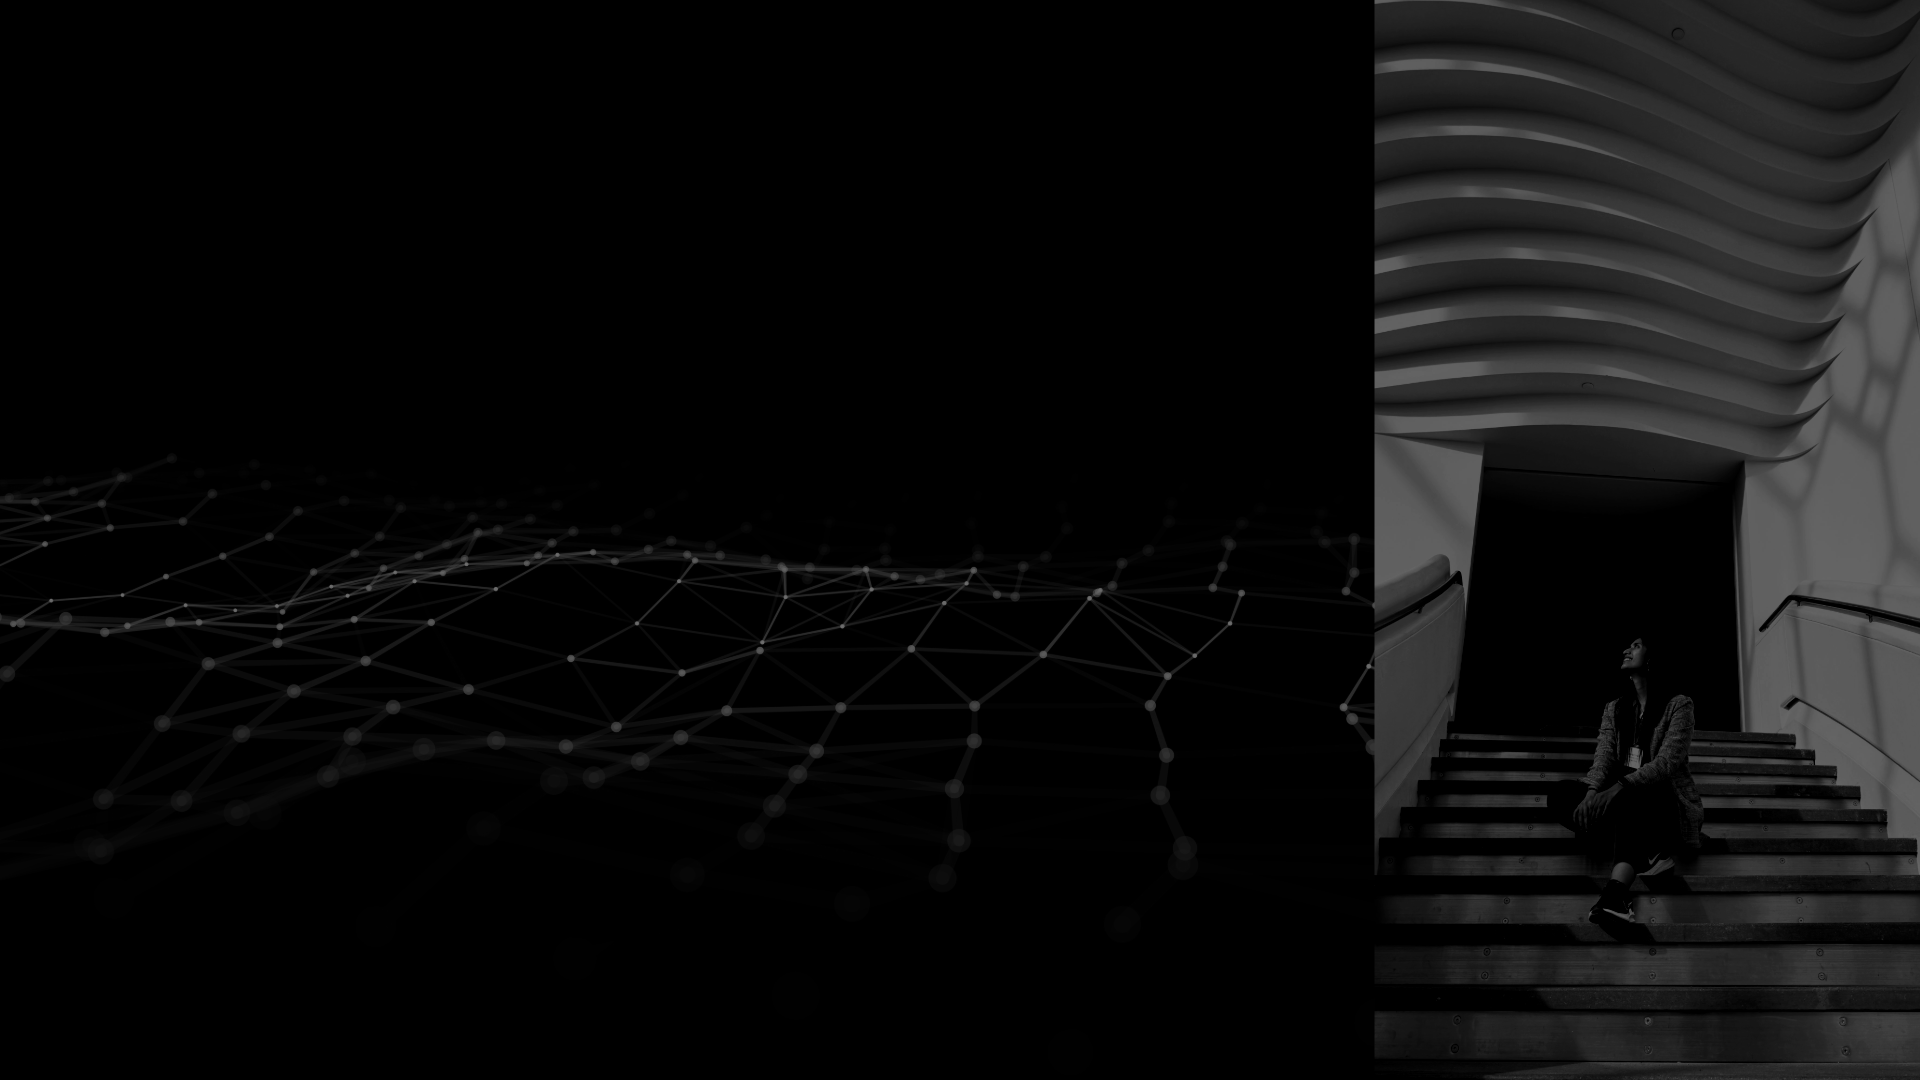
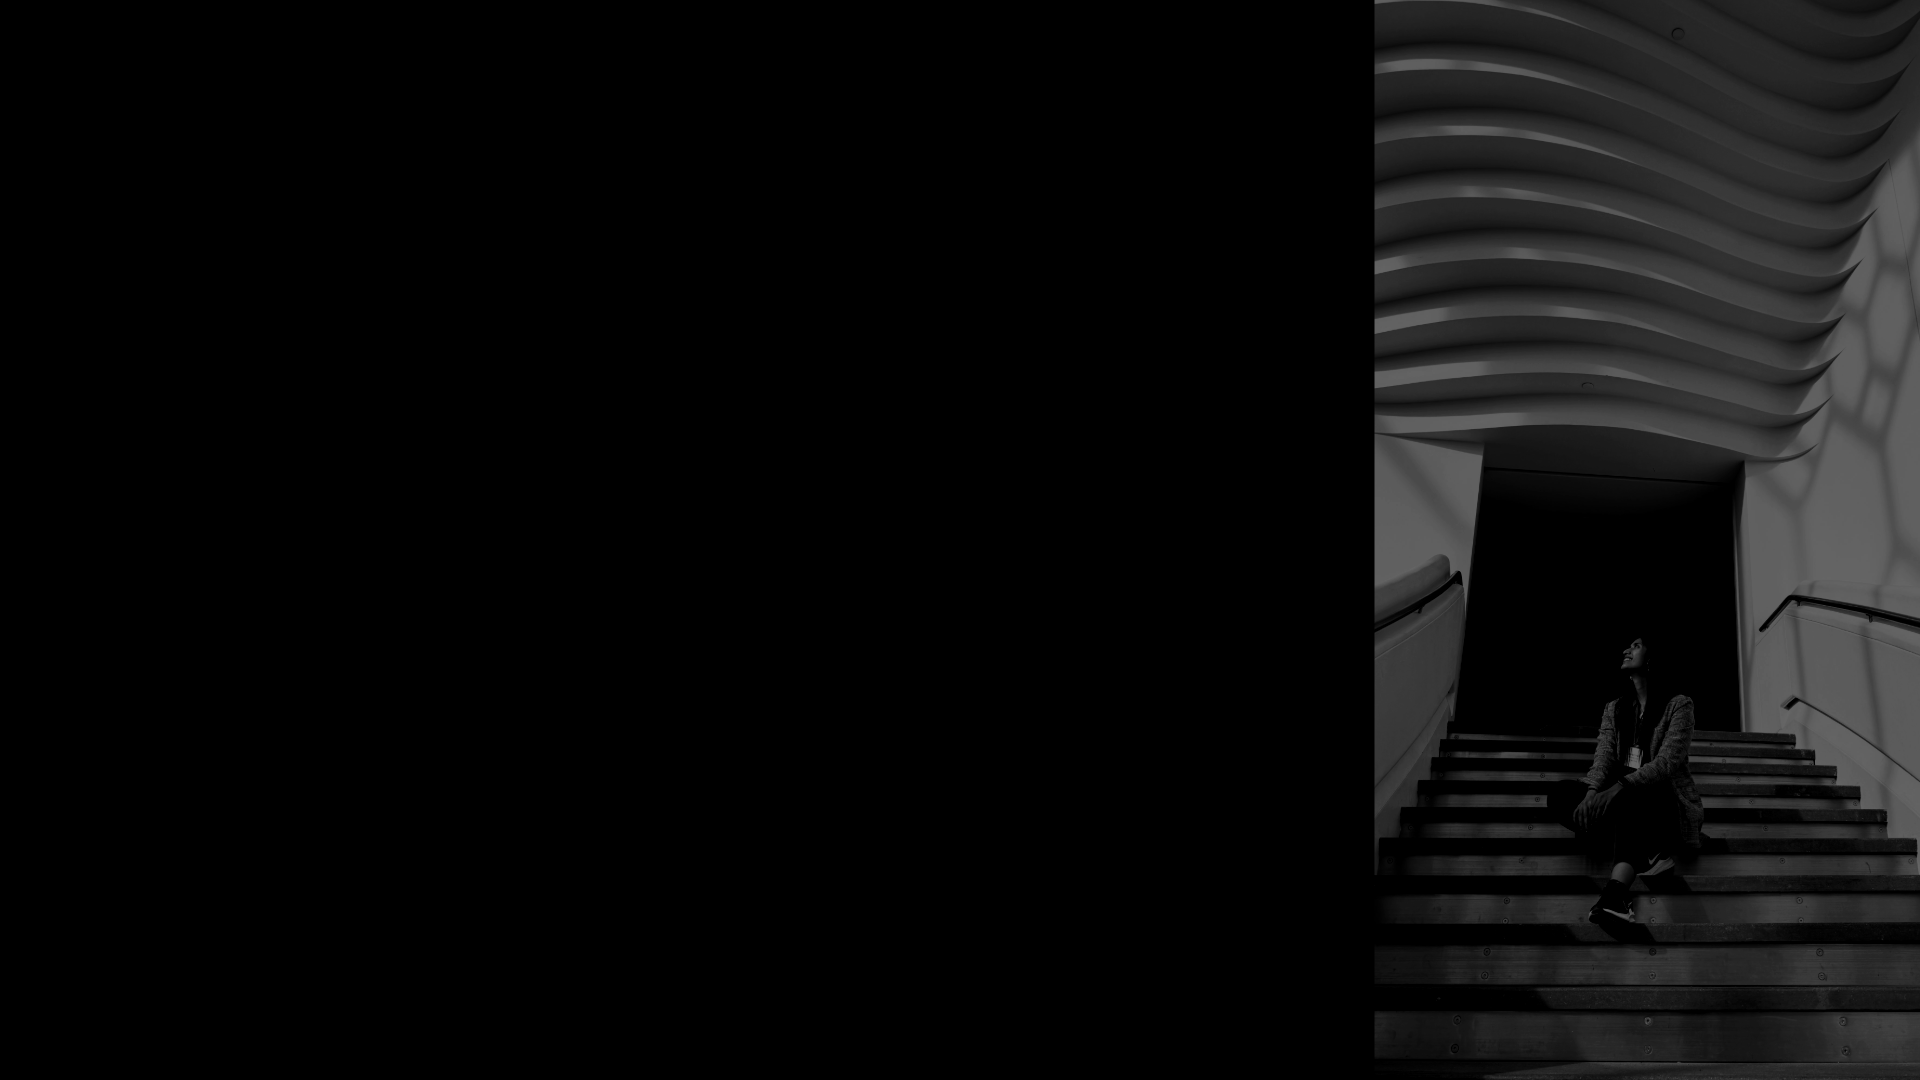
new bg image, altered skills css

diff --git a/index.html b/index.html
@@ -113,35 +113,27 @@
           <p class="fst-italic">
             I am driven by a profound passion for solving intricate business problems through innovative data science techniques. My expertise spans data exploration, visualization, and developing machine learning solutions to optimize business processes.
 
-            Other than waving my magic wand of data science skills to discover hidden insights and build AI solutions, I am also deeply passionate about building responsible AI solutions. I love a good discussion on AI ethics and include this in every AI project.
-
-            In the same stride of building ethical AI, my Master's thesis focuses on identifying and mitigating bias in AI automation for university admissions.
-
-            In addition to my technical pursuits, I am actively involved in tech-for-good initiatives and passionately advocate for equity and diversity in computer science, and attend conferences like #GHC and #WiDSStanford.
-
-            With global experience and having worked with multi-national teams, I bring a diverse perspective and inclusive approach to every team I join. My ability to speak multiple languages also greatly boosts my communication and enables me to connect with people from diverse cultures.
-
-            I thrive in environments that cherish innovation, collaboration, and diversity.
           </p>
-          <div class="row">
-            <div class="col-lg-6">
+<!--          <div class="row">-->
+<!--            <div class="col-lg-6">-->
 <!--              <ul>-->
 <!--&lt;!&ndash;                <li><i class="bi bi-chevron-right"></i> <strong>Birthday:</strong> <span>1 May 1995</span></li>&ndash;&gt;-->
 <!--&lt;!&ndash;                <li><i class="bi bi-chevron-right"></i> <strong>Website:</strong> <span>www.example.com</span></li>&ndash;&gt;-->
 <!--                <li><i class="bi bi-chevron-right"></i> <strong>Phone:</strong> <span>+123 456 7890</span></li>-->
 <!--                <li><i class="bi bi-chevron-right"></i> <strong>City:</strong> <span>New York, USA</span></li>-->
-<!--              </ul>-->
-            </div>
-            <div class="col-lg-6">
+<!--&lt;!&ndash;              </ul>&ndash;&gt;-->
+<!--            </div>-->
+<!--            <div class="col-lg-6">-->
 <!--              <ul>-->
 <!--                <li><i class="bi bi-chevron-right"></i> <strong>Age:</strong> <span>30</span></li>-->
 <!--                <li><i class="bi bi-chevron-right"></i> <strong>Degree:</strong> <span>Master</span></li>-->
 <!--                <li><i class="bi bi-chevron-right"></i> <strong>PhEmailone:</strong> <span>email@example.com</span></li>-->
 <!--                <li><i class="bi bi-chevron-right"></i> <strong>Freelance:</strong> <span>Available</span></li>-->
 <!--              </ul>-->
-            </div>
-          </div>
+<!--            </div>-->
+<!--          </div>-->
           <p>
+
             Follow and connect with me on LinkedIn to stay updated on my Tech journey!
           </p>
         </div>
@@ -264,11 +256,11 @@
             TensorFlow
           </div>
           <div class="skill-item">
-            <img src="pandas.png" alt="PyTorch">
+            <img src="assets/img/skills/pandas.png" alt="Pandas">
             Pandas
           </div>
           <div class="skill-item">
-            <img src="scikit-learn.png" alt="Scikit-Learn">
+            <img src="assets/img/skills/scikit-learn.png" alt="Scikit-Learn">
             Scikit-Learn
           </div>
         </div>
@@ -281,11 +273,11 @@
               TensorFlow
             </div>
             <div class="skill-item">
-              <img src="pandas.png" alt="PyTorch">
+              <img src="assets/img/skills/pandas.png" alt="PyTorch">
               Pandas
             </div>
             <div class="skill-item">
-              <img src="scikit-learn.png" alt="Scikit-Learn">
+              <img src="assets/img/skills/scikit-learn.png" alt="Scikit-Learn">
               Scikit-Learn
             </div>
           </div>
@@ -298,11 +290,11 @@
                 TensorFlow
               </div>
               <div class="skill-item">
-                <img src="pandas.png" alt="PyTorch">
+                <img src="assets/img/skills/pandas.png" alt="PyTorch">
                 Pandas
               </div>
               <div class="skill-item">
-                <img src="scikit-learn.png" alt="Scikit-Learn">
+                <img src="assets/img/skills/scikit-learn.png" alt="Scikit-Learn">
                 Scikit-Learn
               </div>
             </div>
@@ -852,7 +844,7 @@
     <!-- You can delete the links only if you purchased the pro version. -->
     <!-- Licensing information: https://bootstrapmade.com/license/ -->
     <!-- Purchase the pro version with working PHP/AJAX contact form: https://bootstrapmade.com/personal-free-resume-bootstrap-template/ -->
-    Designed by <a href="https://bootstrapmade.com/">BootstrapMade</a>
+    Designed inspired by <a href="https://bootstrapmade.com/">BootstrapMade, improved by yours truly.</a>
   </div>
 
   <!-- Vendor JS Files -->
@@ -874,7 +866,7 @@
       },
       particles: {
         number: {
-          value: 80, // Number of particles
+          value: 60, // Number of particles
         },
         color: {
           value: "#ffffff" // Color of the particles
@@ -886,7 +878,7 @@
           value: 0.5, // Opacity of the particles
         },
         size: {
-          value: 3, // Size of the particles
+          value: 2, // Size of the particles
         },
         line_linked: {
           enable: true, // Enables line linking between particles
@@ -932,14 +924,14 @@
           },
           bubble: {
             distance: 400,
-            size: 40,
-            duration: 2,
+            size: 30,
+            duration: 3,
             opacity: 8,
             speed: 3
           },
           repulse: {
             distance: 200,
-            duration: 0.4
+            duration: 0.6
           },
           push: {
             particles_nb: 4

diff --git a/assets/css/style.css b/assets/css/style.css
@@ -257,7 +257,6 @@ h6 {
   left: 0;
   background-color: #18d26e;
   visibility: hidden;
-  width: 0;
   transition: all 0.3s ease-in-out 0s;
 }
 
@@ -535,13 +534,13 @@ section .container {
   flex: 1 1 20%; /* Adjust size here */
   margin: 10px;
   padding: 20px;
-  background-color: rgba(24, 210, 110, 0.45);
+  background-color: rgba(255, 255, 255, 0.08);
   border-radius: 10px;
   box-shadow: 0 2px 5px rgba(0,0,0,0.1);
 }
 .category h3 {
   font-size: 20px;
-  color: #ffffff;
+  color: #18d26e;
 }
 .skills-logos {
   padding: 10px 0;
@@ -1209,7 +1208,7 @@ section .container {
   bottom: 0;
   padding: 15px;
   text-align: right;
-  font-size: 13px;
+  font-size: 10px;
   color: #fff;
   z-index: 999999;
 }
